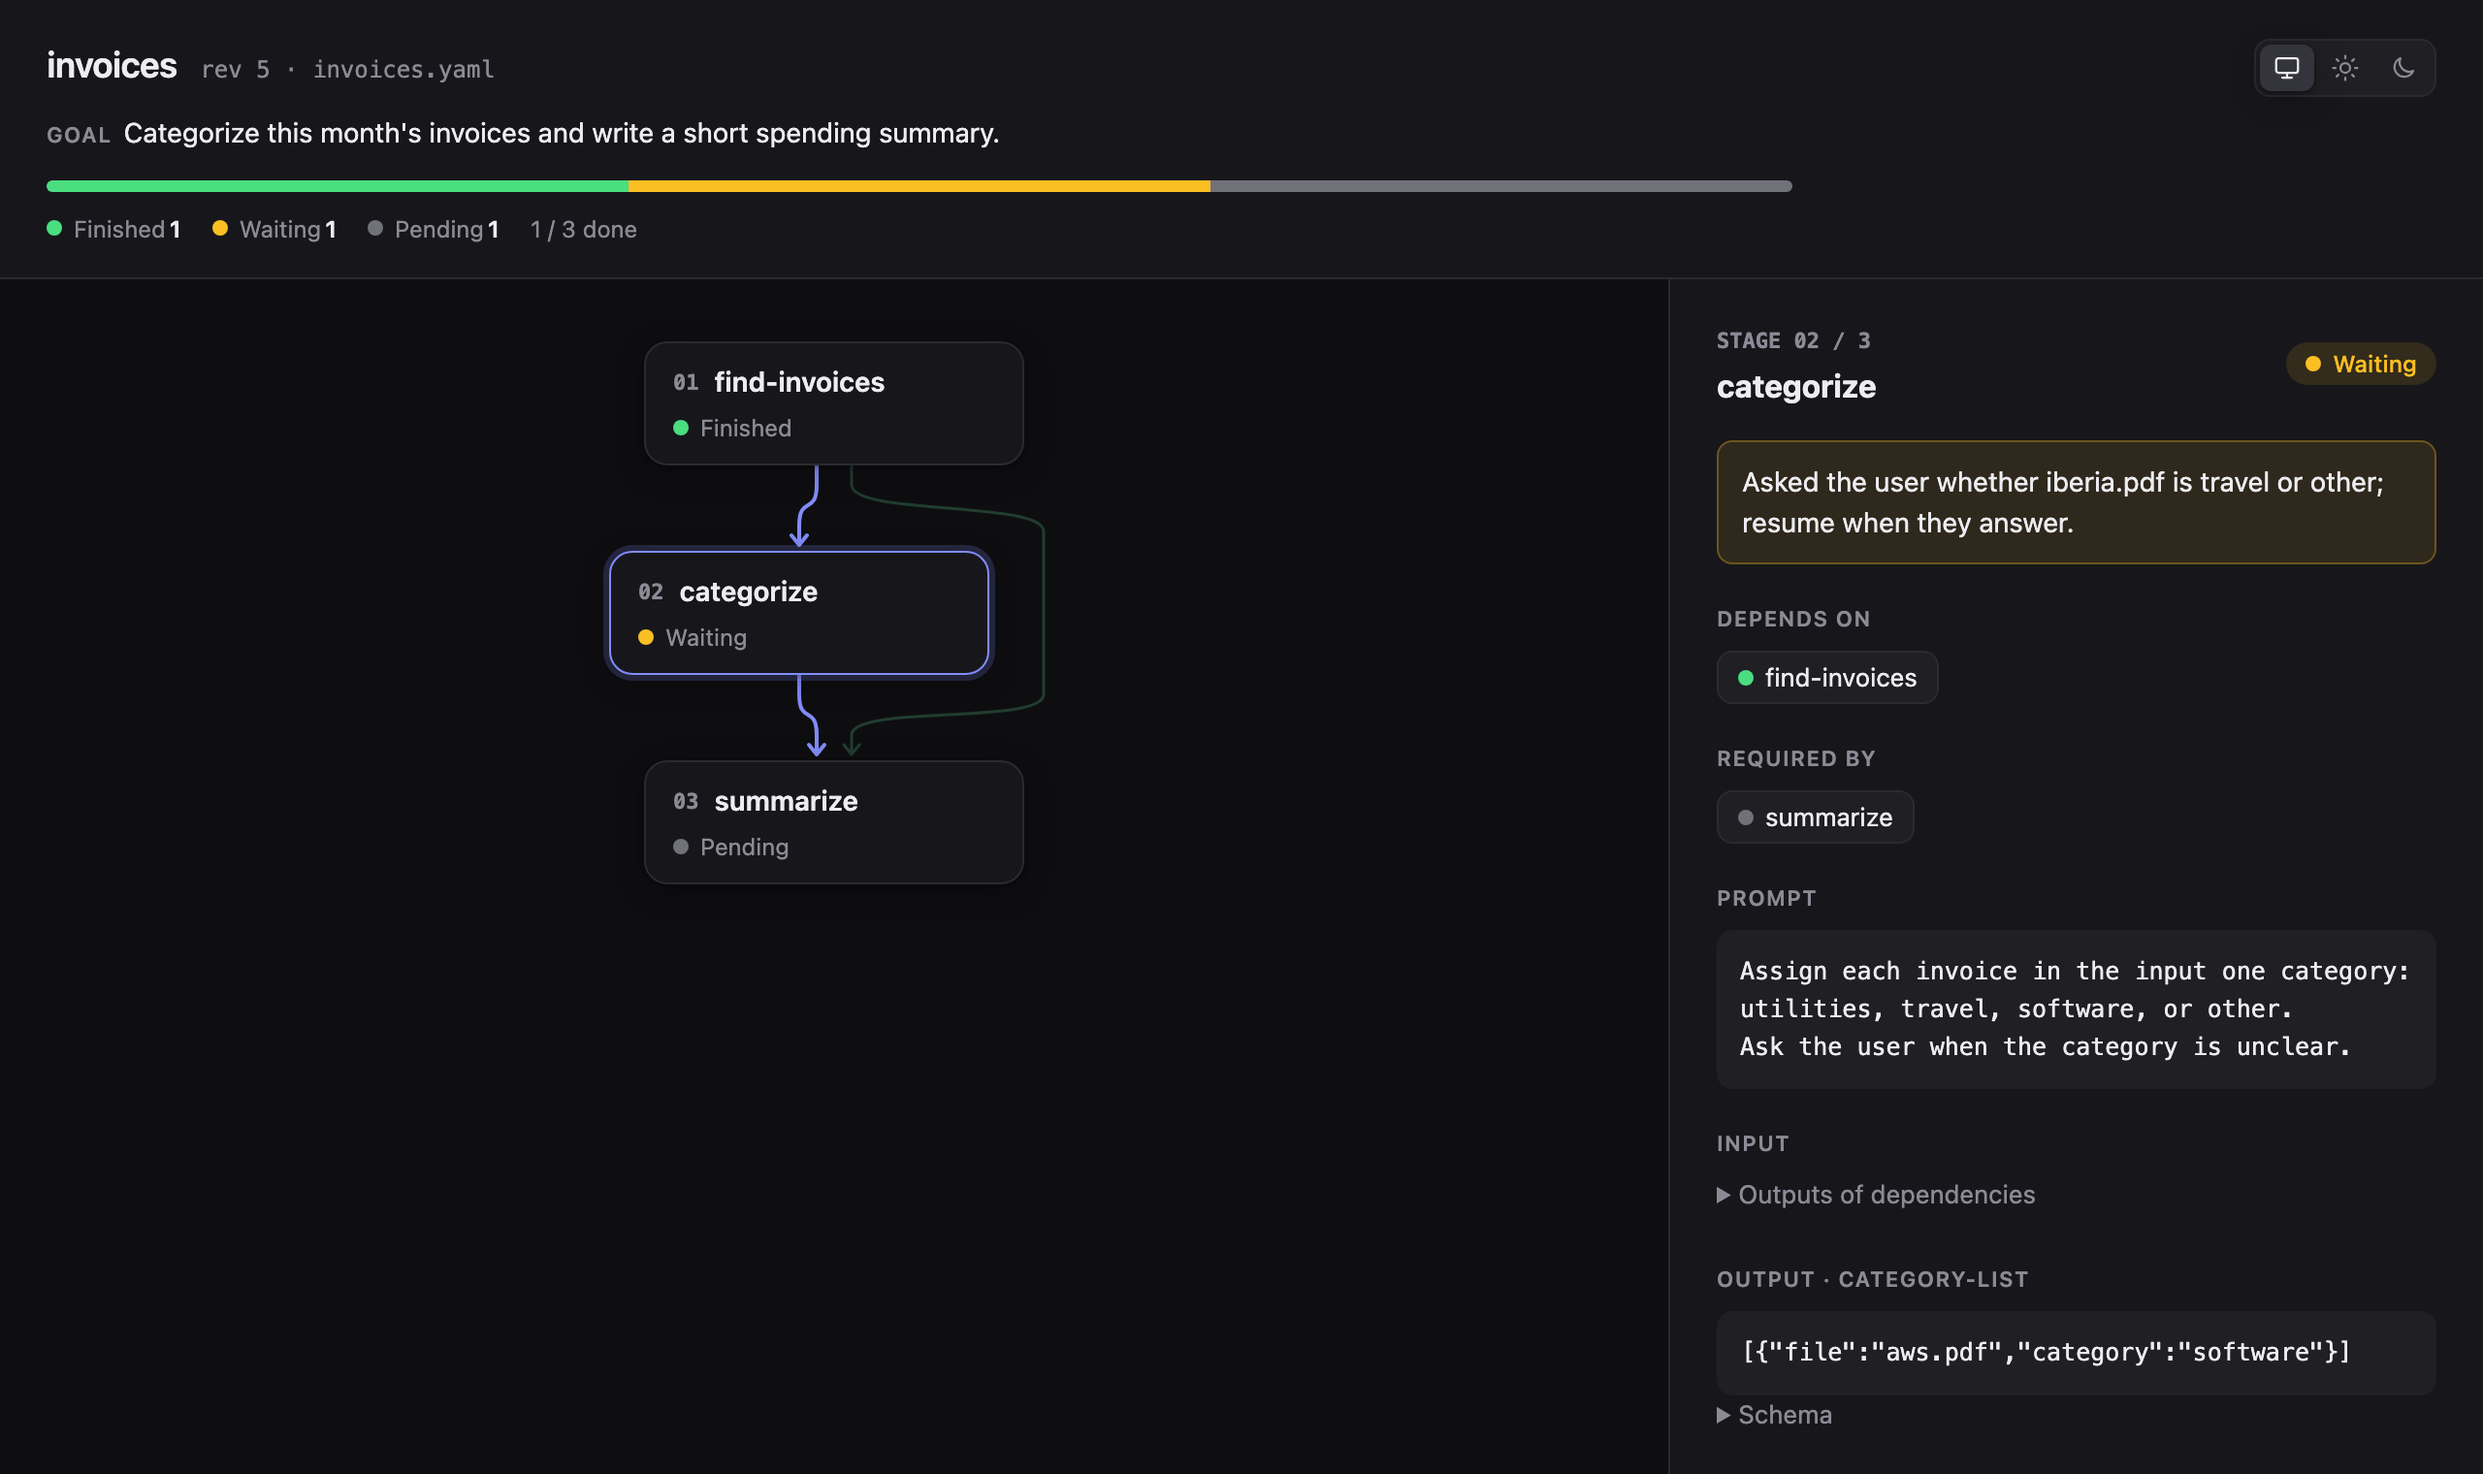
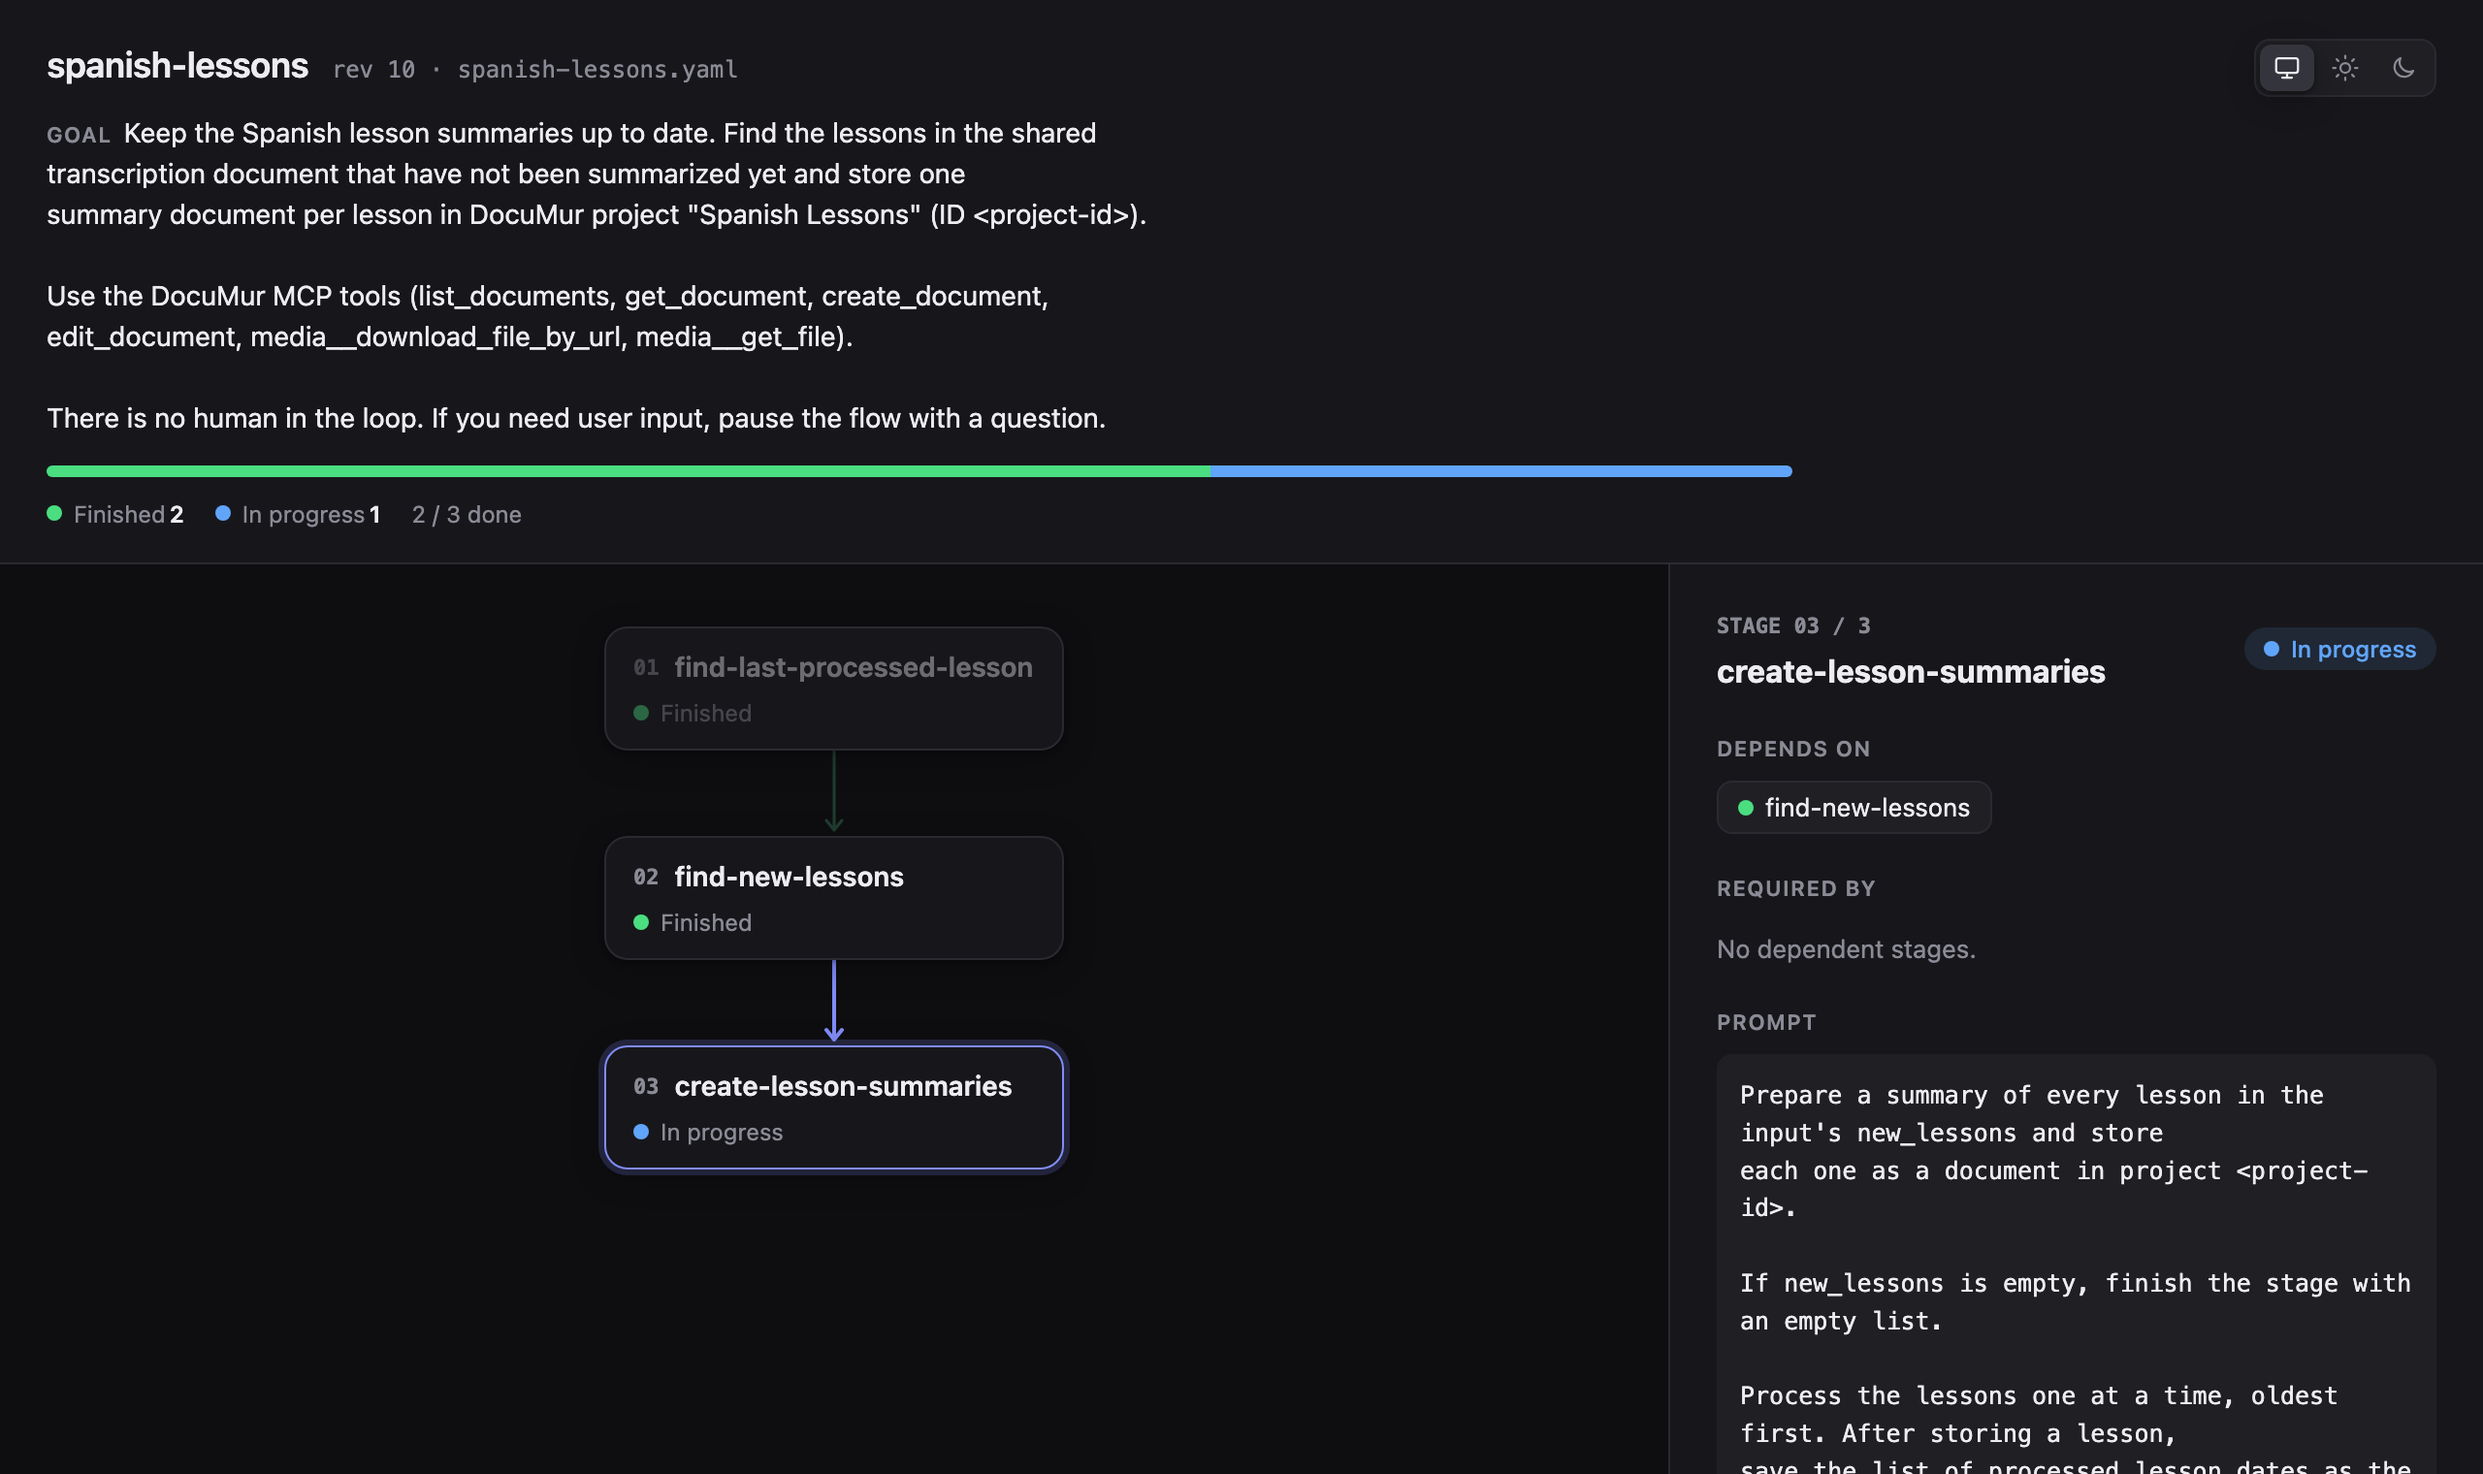
Update README

diff --git a/skills/durable-flow/references/lifecycle.md b/skills/durable-flow/references/lifecycle.md
@@ -1,63 +1,68 @@
 # Worked lifecycle
 
 This walkthrough uses a copy of [`example.yaml`](example.yaml) at
-`path/to/spanish-review.yaml`. Set the task-specific `FLOW_TOOL` shell variable
+`path/to/spanish-lessons.yaml`. Set the task-specific `FLOW_TOOL` shell variable
 to the path of `scripts/state_management.py` resolved from the skill directory.
 The revision values illustrate a flow with no other writer; always use the
 latest revision returned by the preceding successful command.
 
-## Start and finish the first stage
+## Start and finish the first stages
 
 Read the new flow. Its revision is `0`, and every stage is `pending`.
 
 ```bash
-"$FLOW_TOOL" get_flow -p "path/to/spanish-review.yaml"
-"$FLOW_TOOL" start_next_stage -p "path/to/spanish-review.yaml" -r 0
+"$FLOW_TOOL" get_flow -p "path/to/spanish-lessons.yaml"
+"$FLOW_TOOL" start_next_stage -p "path/to/spanish-lessons.yaml" -r 0
 ```
 
-`find-last-lesson` is now `inprogress` at revision `1`. It has the
-`last-lesson` object schema, so finish it with valid JSON:
+`find-last-processed-lesson` is now `inprogress` at revision `1`. It has the
+`last-processed-lesson` object schema, so finish it with valid JSON:
 
 ```bash
-"$FLOW_TOOL" finish_stage -p "path/to/spanish-review.yaml" -r 1 -m '{"lesson-date":"2026-09-20","document-id":"lesson-020"}'
-"$FLOW_TOOL" start_next_stage -p "path/to/spanish-review.yaml" -r 2
+"$FLOW_TOOL" finish_stage -p "path/to/spanish-lessons.yaml" -r 1 -m '{"document_id":"doc-0731","lesson_date":"2026-07-31"}'
+"$FLOW_TOOL" start_next_stage -p "path/to/spanish-lessons.yaml" -r 2
 ```
 
 `find-new-lessons` is now active at revision `3`, and `get_flow` provides the
-validated `find-last-lesson` output as its input.
-
-## Save progress, wait, and resume
-
-Suppose the first lesson is available but a second export is still pending.
-Save the useful partial result before entering `waiting`:
-
-```bash
-"$FLOW_TOOL" set_output -p "path/to/spanish-review.yaml" -r 3 -m '[{"lesson_date":"2026-09-21","start_row":1,"end_row":8,"media_file_id":"media-021"}]'
-"$FLOW_TOOL" pause_stage -p "path/to/spanish-review.yaml" -r 4 -m 'Waiting for the 2026-09-22 lesson export; resume when it is available.'
-```
-
-The stage is `waiting` at revision `5`; its saved output and the reason for
-waiting remain available through `get_flow`. When the export arrives, resume
-the same stage:
-
-```bash
-"$FLOW_TOOL" resume_stage -p "path/to/spanish-review.yaml" -r 5 -m 'The 2026-09-22 lesson export is available.'
-```
-
-The stage returns to `inprogress` at revision `6` and still contains the saved
-partial output.
-
-## Validate and complete the remaining stages
-
-Finish `find-new-lessons` with the complete list. Passing the output to
-`finish_stage` validates it against `lesson-list` before marking the stage
+validated `find-last-processed-lesson` output as its input. Passing the output
+to `finish_stage` validates it against `new-lessons` before marking the stage
 finished.
 
 ```bash
-"$FLOW_TOOL" finish_stage -p "path/to/spanish-review.yaml" -r 6 -m '[{"lesson_date":"2026-09-21","start_row":1,"end_row":8,"media_file_id":"media-021"},{"lesson_date":"2026-09-22","start_row":1,"end_row":9,"media_file_id":"media-022"}]'
-"$FLOW_TOOL" start_next_stage -p "path/to/spanish-review.yaml" -r 7
-"$FLOW_TOOL" finish_stage -p "path/to/spanish-review.yaml" -r 8 -m 'Created grammar and new-word review materials for both lessons.'
-"$FLOW_TOOL" get_flow -p "path/to/spanish-review.yaml"
+"$FLOW_TOOL" finish_stage -p "path/to/spanish-lessons.yaml" -r 3 -m '{"media_file_id":"media-001","new_lessons":[{"lesson_date":"2026-08-05","start_row":1915,"end_row":1974},{"lesson_date":"2026-08-07","start_row":1975,"end_row":2016}]}'
+"$FLOW_TOOL" start_next_stage -p "path/to/spanish-lessons.yaml" -r 4
+```
+
+`create-lesson-summaries` is now active at revision `5`.
+
+## Save progress, wait, and resume
+
+Suppose the first summary is stored but DocuMur rejects the second one. Save
+the useful partial result before entering `waiting`:
+
+```bash
+"$FLOW_TOOL" set_output -p "path/to/spanish-lessons.yaml" -r 5 -m '["2026-08-05"]'
+"$FLOW_TOOL" pause_stage -p "path/to/spanish-lessons.yaml" -r 6 -m 'DocuMur is unavailable while storing the 2026-08-07 summary; resume when it is back.'
+```
+
+The stage is `waiting` at revision `7`; its saved output and the reason for
+waiting remain available through `get_flow`. When DocuMur is available again,
+resume the same stage:
+
+```bash
+"$FLOW_TOOL" resume_stage -p "path/to/spanish-lessons.yaml" -r 7 -m 'DocuMur is available again.'
+```
+
+The stage returns to `inprogress` at revision `8` and still contains the saved
+partial output, so it skips `2026-08-05`.
+
+## Complete the flow
+
+Finish `create-lesson-summaries` with the complete list:
+
+```bash
+"$FLOW_TOOL" finish_stage -p "path/to/spanish-lessons.yaml" -r 8 -m '["2026-08-05","2026-08-07"]'
+"$FLOW_TOOL" get_flow -p "path/to/spanish-lessons.yaml"
 ```
 
 All three stages are now `finished` at revision `9`. If structured output

diff --git a/docs/durable-flow/README.md b/docs/durable-flow/README.md
@@ -134,15 +134,18 @@ stages:
     depends_on: [find-invoices]
 ```
 
-### Flow visualization
+## Flow visualization
 
-When the user asks to see a flow, the agent renders it as an HTML page:
+When the user asks to see a flow, the agent renders it as an HTML page. Here is
+a run of the
+[`example.yaml`](../../skills/durable-flow/references/example.yaml) starter
+flow:
 
 ```bash
-scripts/visualize.py -p invoices.yaml
+scripts/visualize.py -p spanish-lessons.yaml
 ```
 
-![The invoices flow paused at the categorize stage](visualization.png)
+![The spanish-lessons flow with the create-lesson-summaries stage in progress](visualization.png)
 
 ## Future enhancements
 
